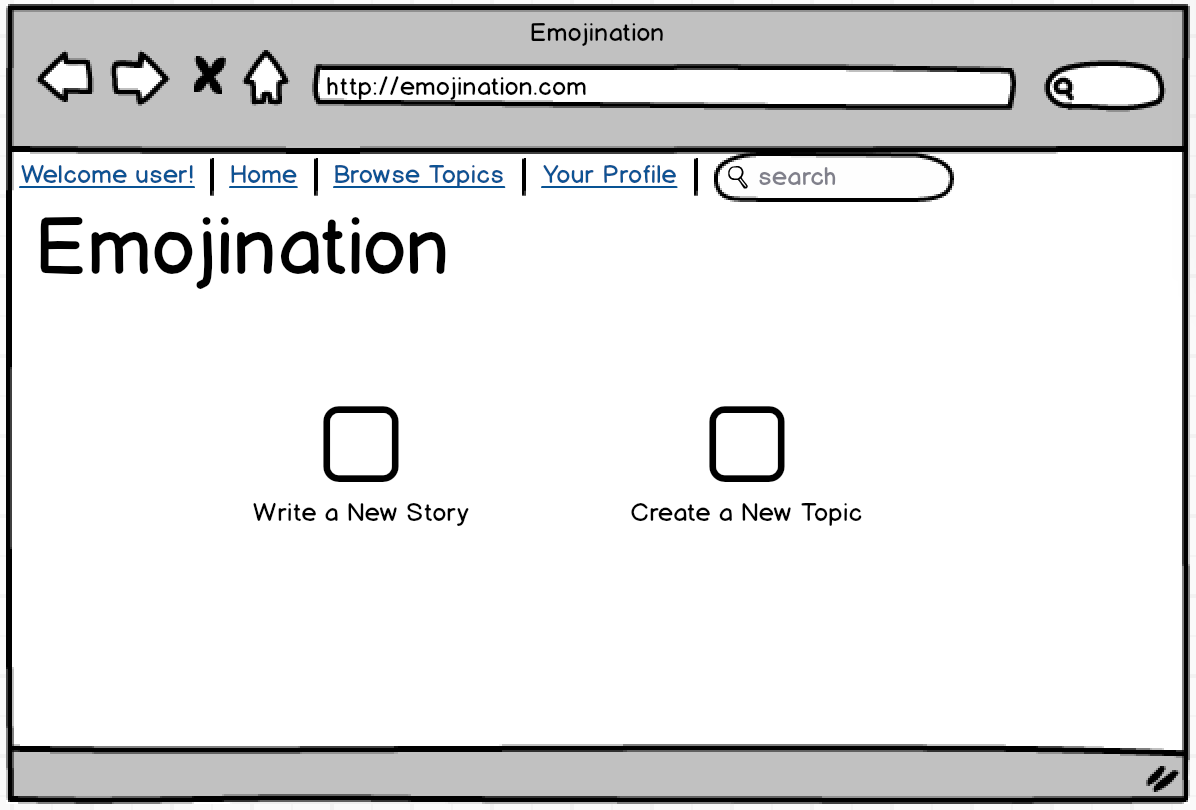
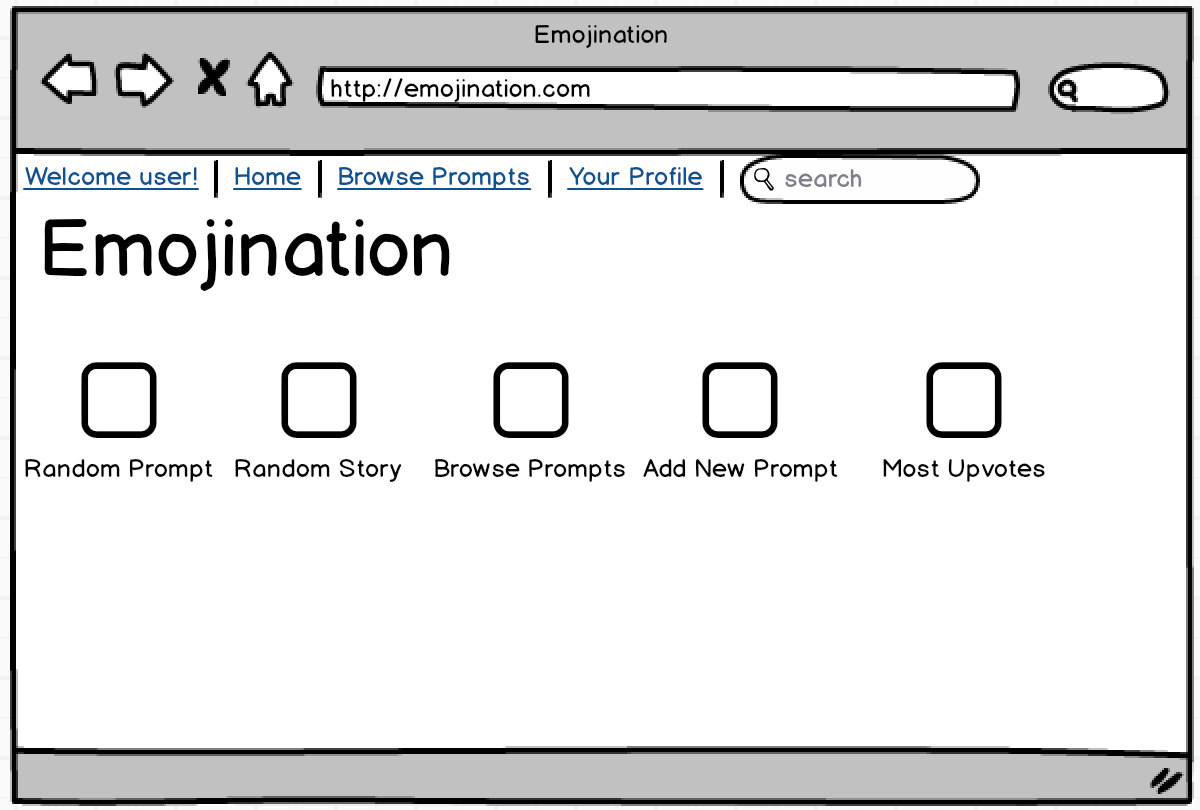
Added wireframes to readme

diff --git a/client/index.html b/client/index.html
@@ -4,6 +4,17 @@
 <head>
   <meta charset="utf-8">
   <title>emojination</title>
+
+  <!-- Temp style -->
+  <style media="screen">
+    body {
+      font-family: 'Fredoka One', cursive;
+      color: #333;
+  }
+
+  </style>
+
+
   <!-- styles -->
   <link rel="stylesheet" href="/style/style.scss" media="screen" type='text/css'>
   <!-- Materialize CSS -->
@@ -29,30 +40,29 @@
 
 </head>
 <body ng-app="emojination">
-  <div class="navbar-fixed">
-    <nav>
-      <div class="nav-wrapper">
-        <a href="#!" class="brand-logo center">Emojination</a>
-        <ul class="right hide-on-med-and-down">
-          <li><a href="sass.html">Write Stories</a></li>
-          <li><a href="badges.html">Components</a></li>
-          <li class="active"><a href="collapsible.html">JavaScript</a></li>
-        </ul>
-      </div>
-    </nav>
-  </div>  <div class="container" ng-controller="mainController as main">
+  <div ng-controller="mainController as main">
+    <div class="navbar-fixed">
+      <nav>
+        <div class="nav-wrapper">
+          <a href="#!" class="brand-logo center">Emojination</a>
+          <ul class="left hide-on-med-and-down">
+            <li>Welcome, {{ main.currentUser.username }}!</li>
+          </ul>
+          <ul class="right hide-on-med-and-down">
+            <li><a href="#">Home</a></li>
+            <li><a href="#">Browse Topics</a></li>
+            <li><a href="#">Your Profile</a></li>
+          </ul>
+        </div>
+      </nav>
+    </div>
 
-    Logged in user: {{ main.currentUser.username }}
+
     <div ui-view></div>
   </div>
 
 
 
-  <!-- <div class="container" ng-controller="MainController as main"> -->
-      <h1> {{ main.title }}</h1>
-
-
-  <!-- </div> -->
 
 </body>
 </html>

diff --git a/client/templates/profile.html b/client/templates/profile.html
@@ -1,13 +1,1 @@
 <h2>Hello, {{ main.currentUser.username }}</h2>
-
-<!-- In the simplest working version, the entry point would be a single page with a preloaded topic -->
-
-<h4>Imagine a string of emojis here. Wouldn't that be neat?</h4>
-<!-- New Story Form -->
-<form ng-submit="usersCtrl.createStory()">
-  <input type="text" placeholder = "What story are these emojis telling?" ng-model="usersCtrl.newStory">
-  <!-- This needs to have a character limit of like 1000 -->
-  <!-- Such a fluffy perk, but I'd love for the placeholder to be randomly selected from an array of goofy placeholders. -->
-  <button type="submit">Add Story</button>
-
-</form>

diff --git a/client/templates/prompt.html b/client/templates/prompt.html
@@ -1,0 +1,9 @@
+<h4>Imagine a string of emojis here. Wouldn't that be neat?</h4>
+<!-- New Story Form -->
+<form ng-submit="usersCtrl.createStory()">
+  <input type="text" placeholder = "What story are these emojis telling?" ng-model="usersCtrl.newStory">
+  <!-- This needs to have a character limit of like 1000 -->
+  <!-- Such a fluffy perk, but I'd love for the placeholder to be randomly selected from an array of goofy placeholders. -->
+  <button type="submit">Add Story</button>
+
+</form>

diff --git a/client/partials/navbar.html b/client/partials/navbar.html
@@ -1,12 +1,1 @@
-<div class="navbar-fixed">
-  <nav>
-    <div class="nav-wrapper">
-      <a href="#!" class="brand-logo center">Emojination</a>
-      <ul class="right hide-on-med-and-down">
-        <li><a href="sass.html">Sass</a></li>
-        <li><a href="badges.html">Components</a></li>
-        <li class="active"><a href="collapsible.html">JavaScript</a></li>
-      </ul>
-    </div>
-  </nav>
-</div>
+<h1>I AM A NAVBAR PARTIAL WHO BADLY WANTS TO BE SEEN!</h1>
